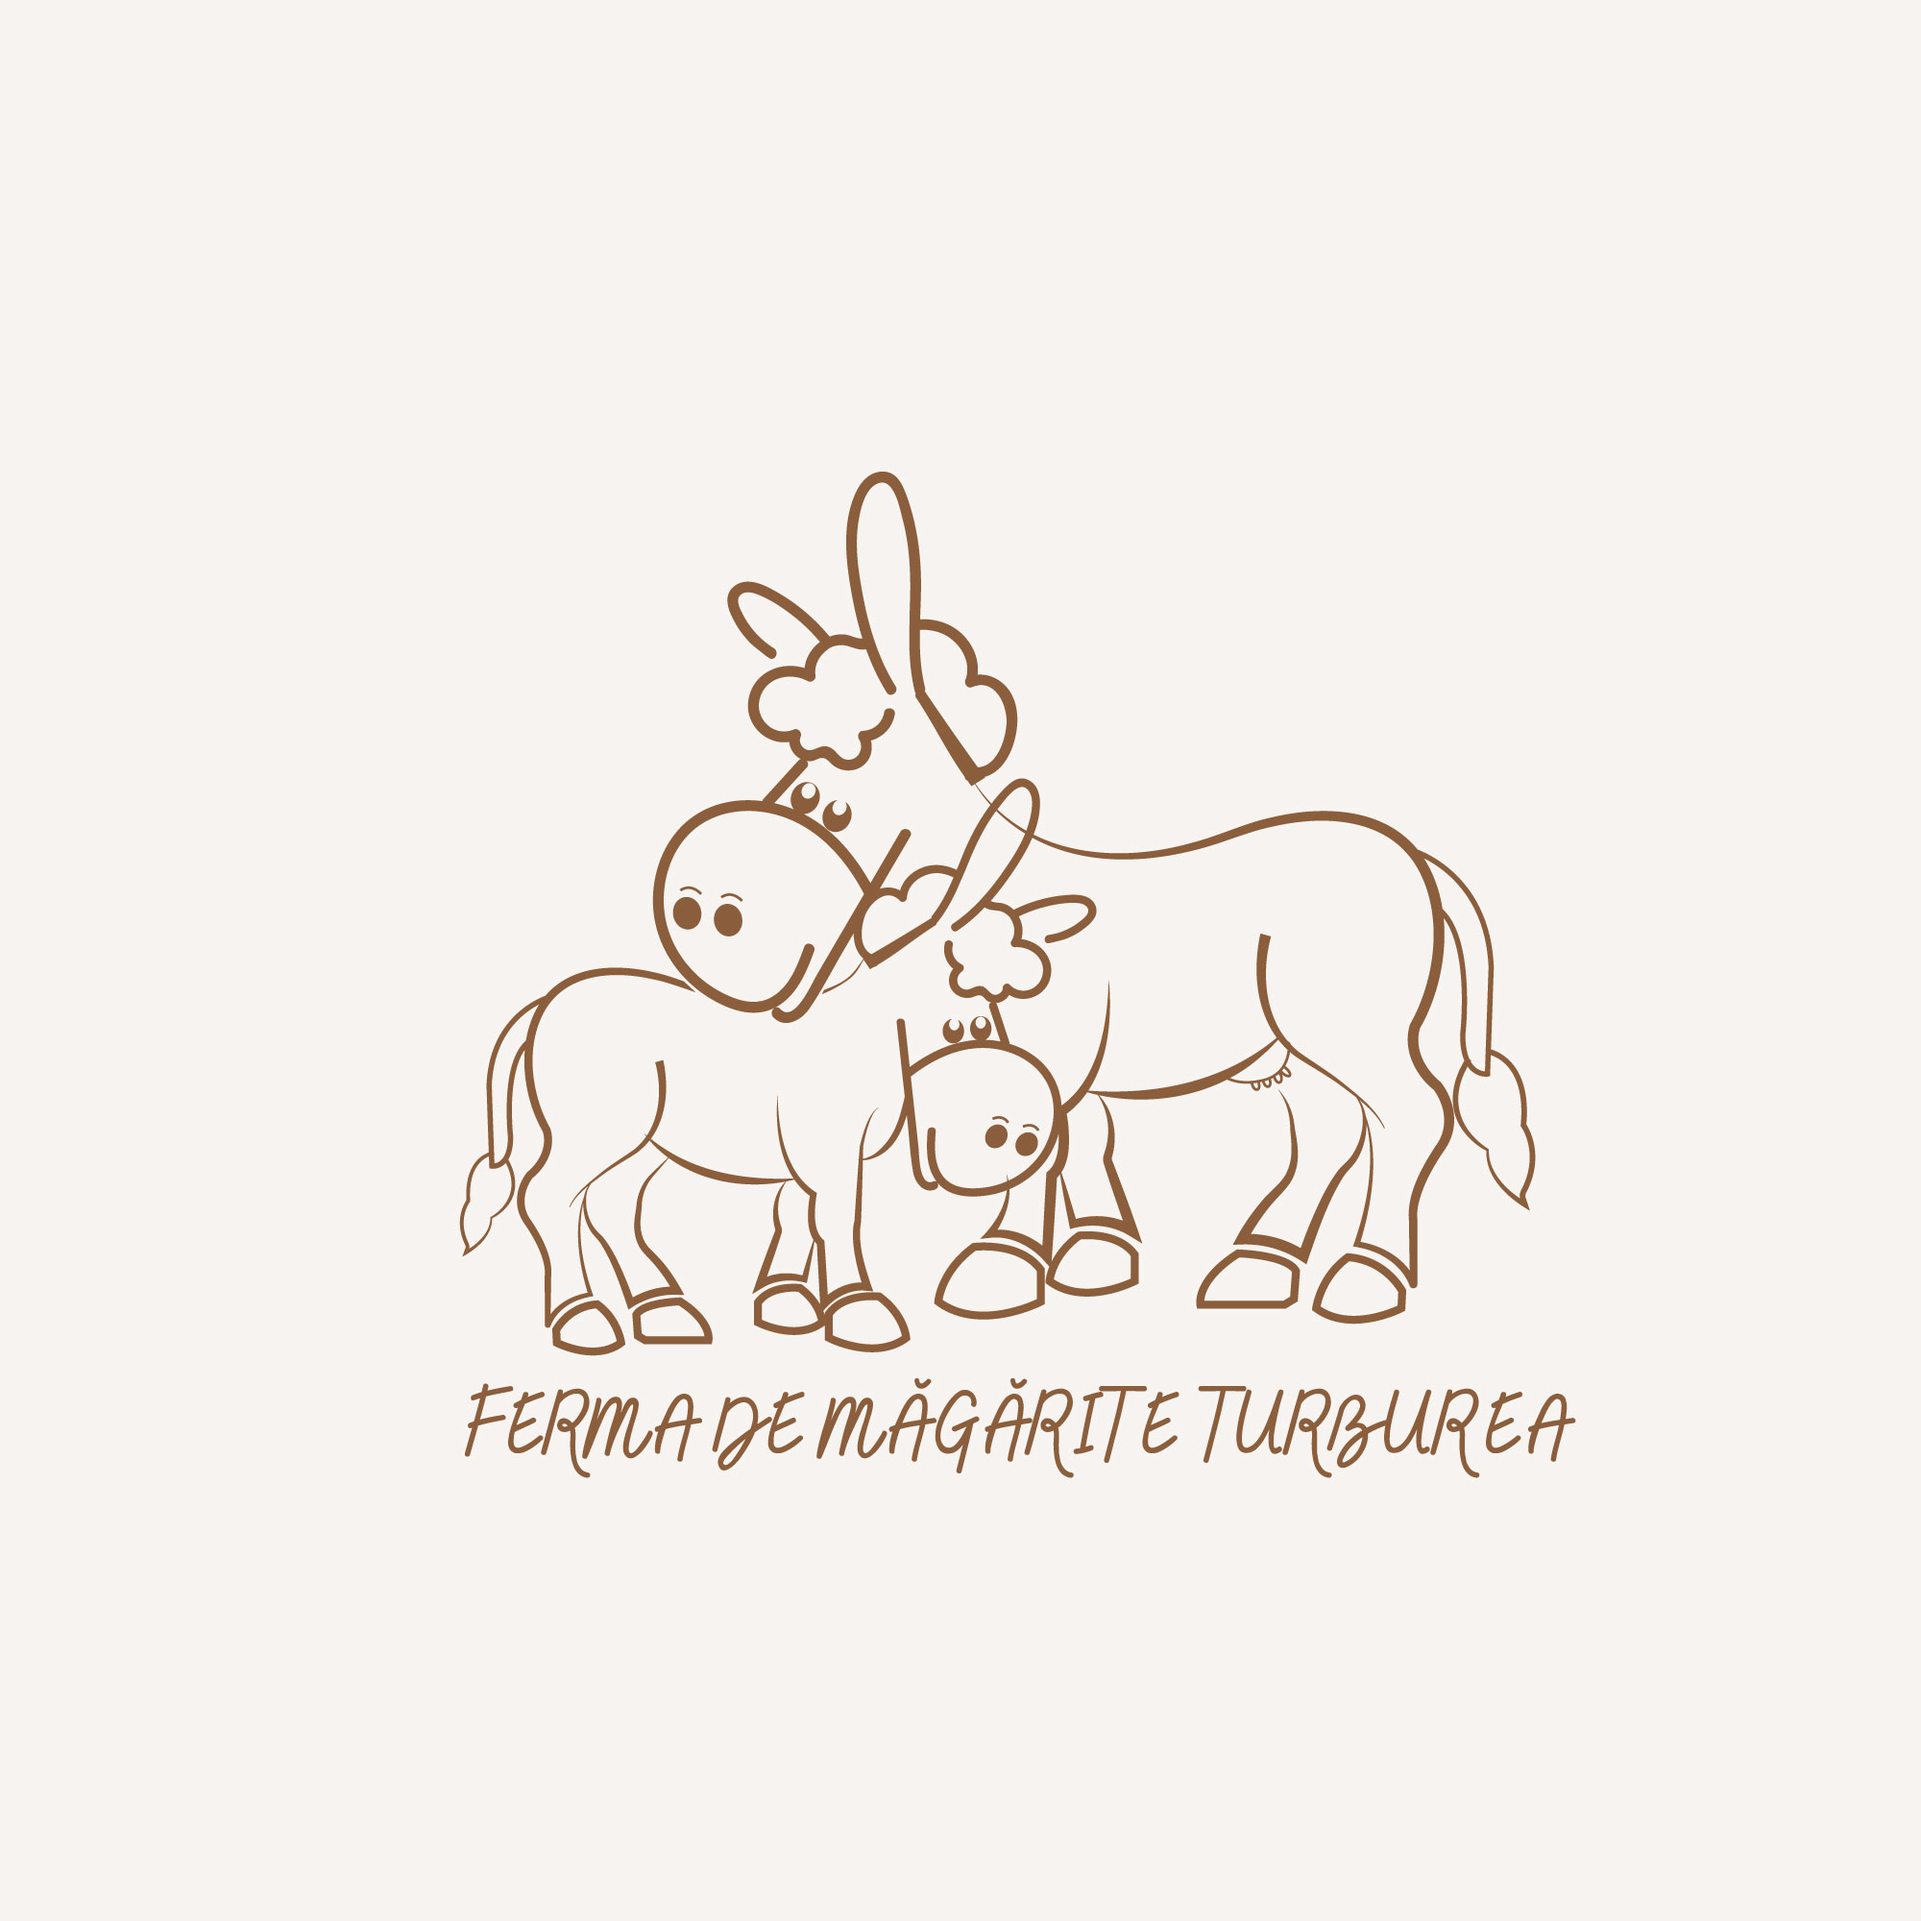
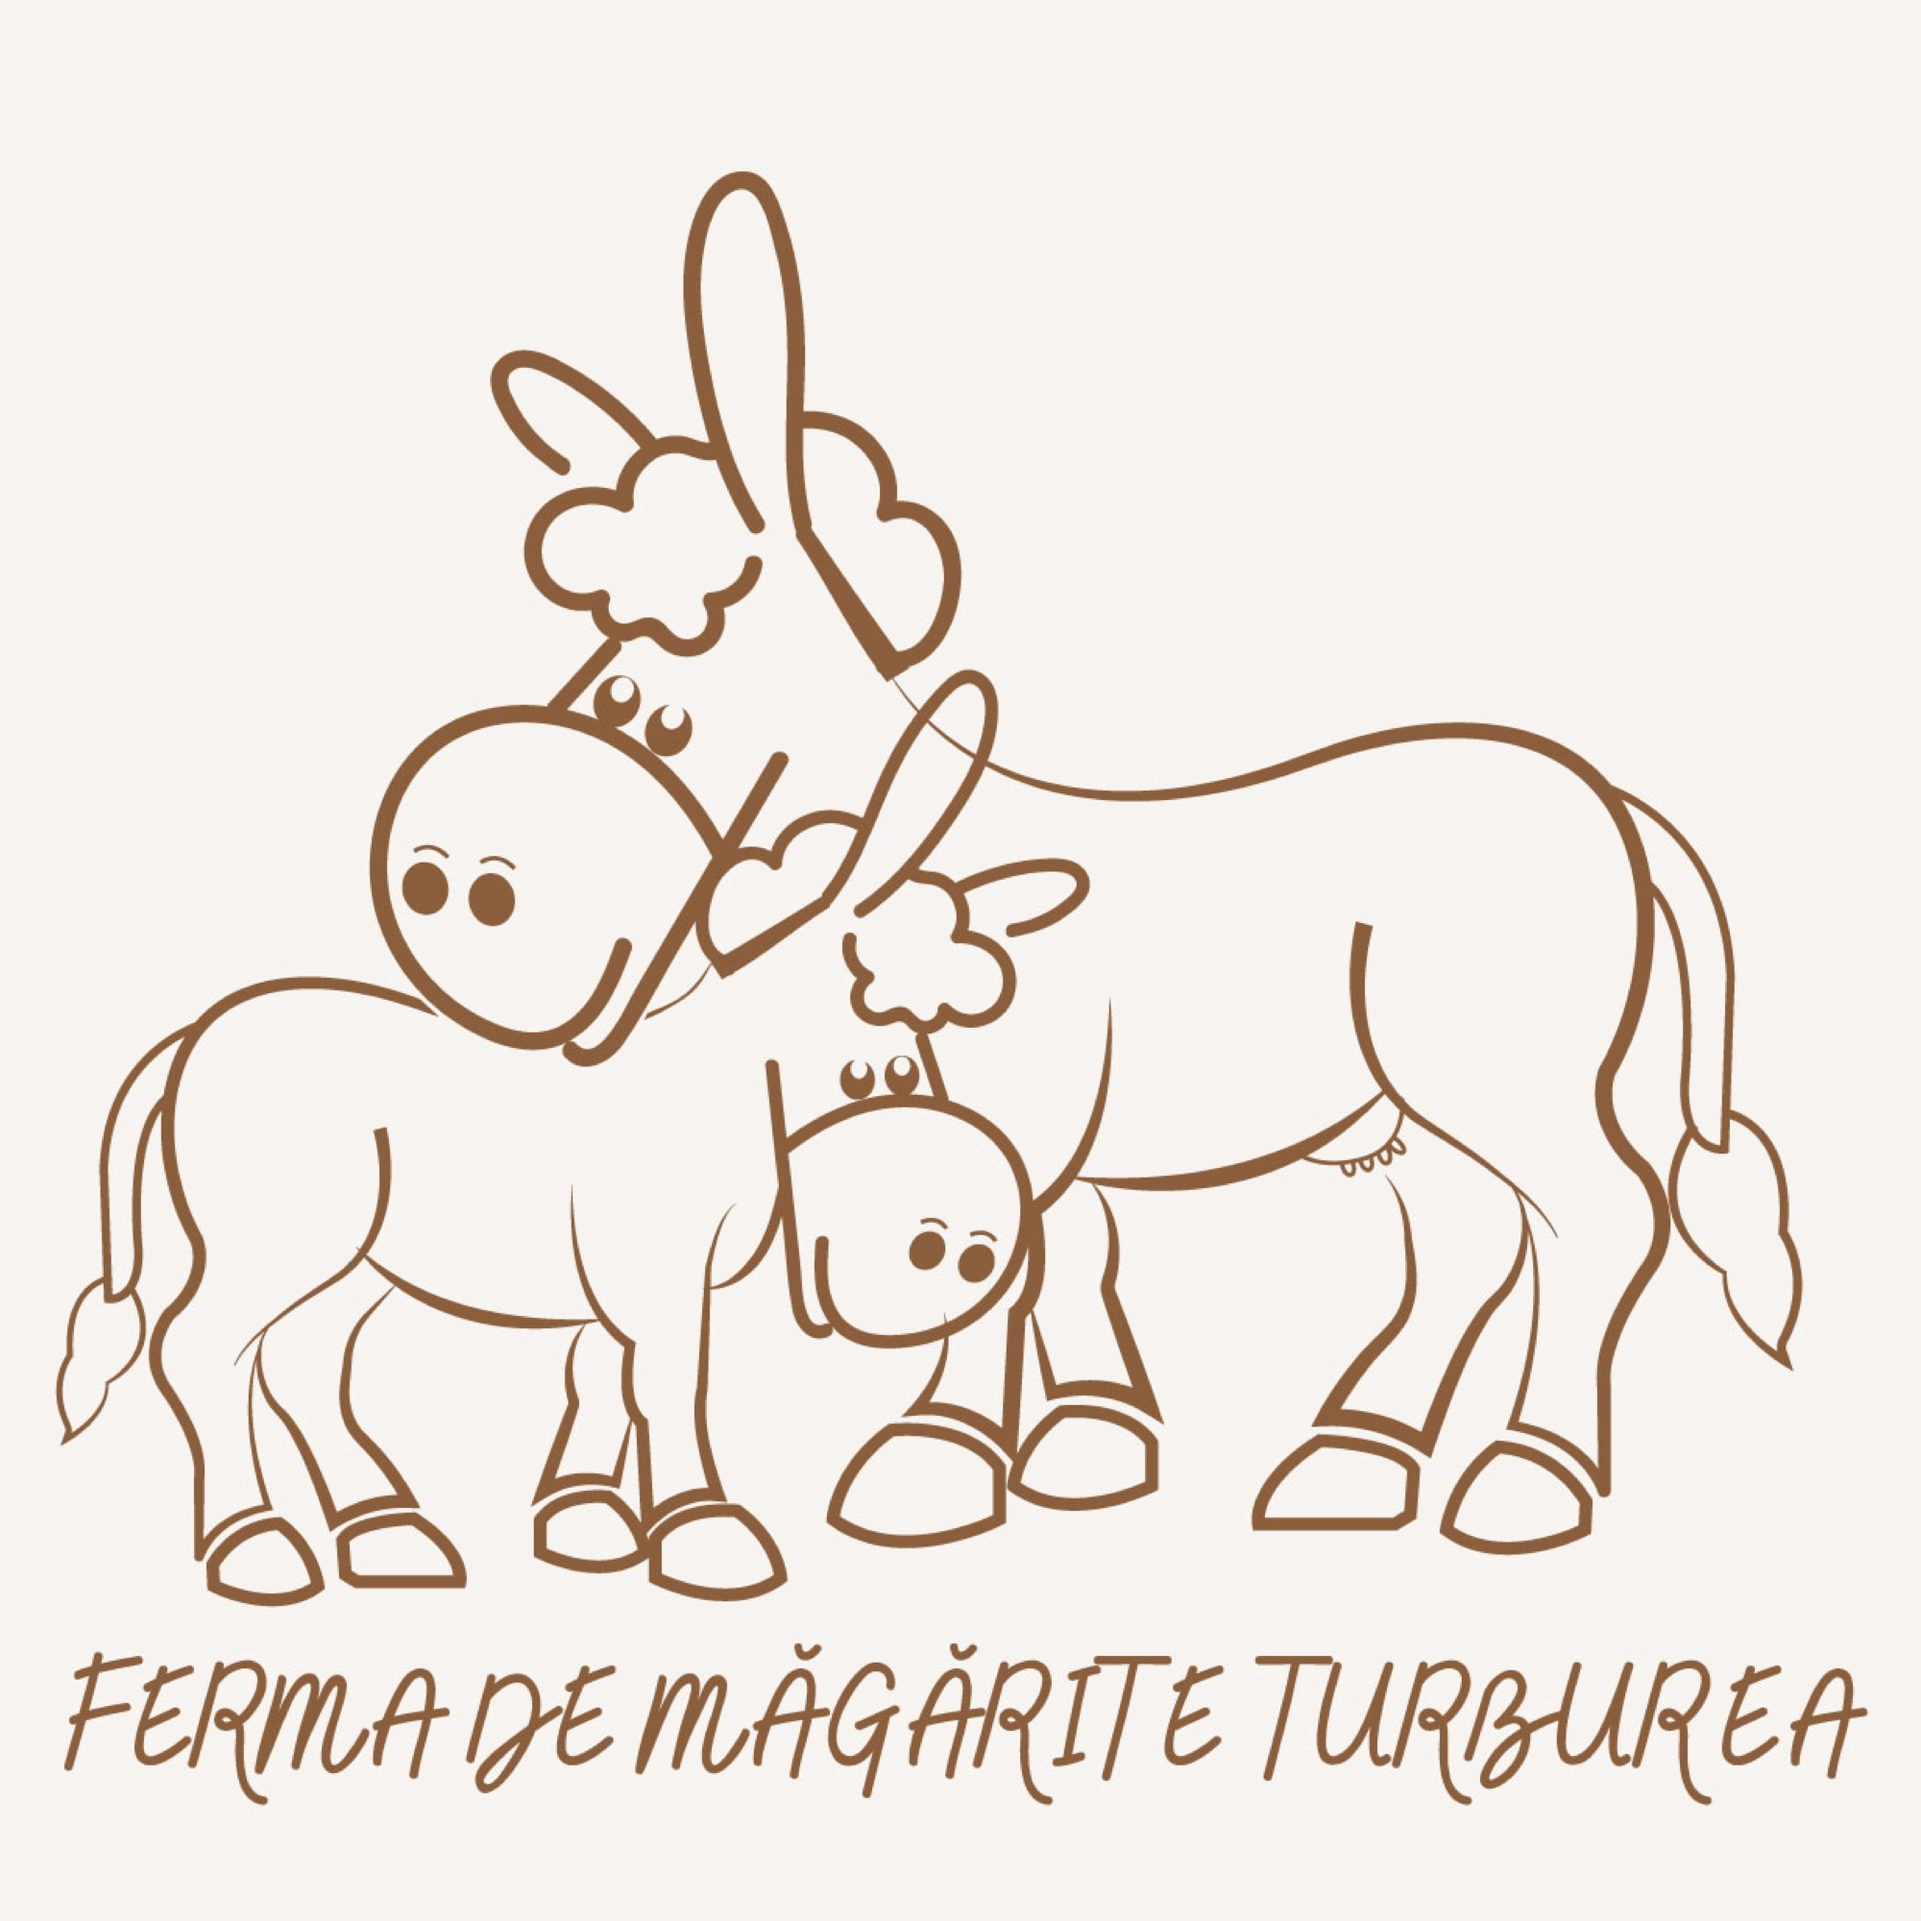
added favion

diff --git a/index.html b/index.html
@@ -4,13 +4,14 @@
     <meta charset="UTF-8">
     <meta name="viewport" content="width=device-width, initial-scale=1.0">
     <title>Artwork Sample</title>
+    <link rel="shortcut icon" href="./images/Image_6.jpg" type="image/x-icon">
     <link rel="stylesheet" href="./styles/main.css">
 </head>
 <body>
    <header>
     <div class="navbar">
         <div class="logo_section">
-            <a href="/"><img src="./images/Image_6.jpg" alt="logo" style="width: 100px;"></a>
+            <a href="/"><img src="./images/2.jpg" alt="logo" style="width: 100px;"></a>
         </div>
         <div class="navLinks">
             <li class="navList">

diff --git a/styles/_home.scss b/styles/_home.scss
@@ -17,7 +17,7 @@
         
         .carousel-item {
             min-width: 100vw; // Use viewport width for full-width slides
-            height: 70vh;
+            height: 66vh;
             border-radius: 10px;
             flex-shrink: 0;
             display: flex;

diff --git a/styles/main.css b/styles/main.css
@@ -95,7 +95,7 @@ header {
 }
 .carousel .carousel-inner .carousel-item {
   min-width: 100vw;
-  height: 70vh;
+  height: 66vh;
   border-radius: 10px;
   flex-shrink: 0;
   display: flex;
